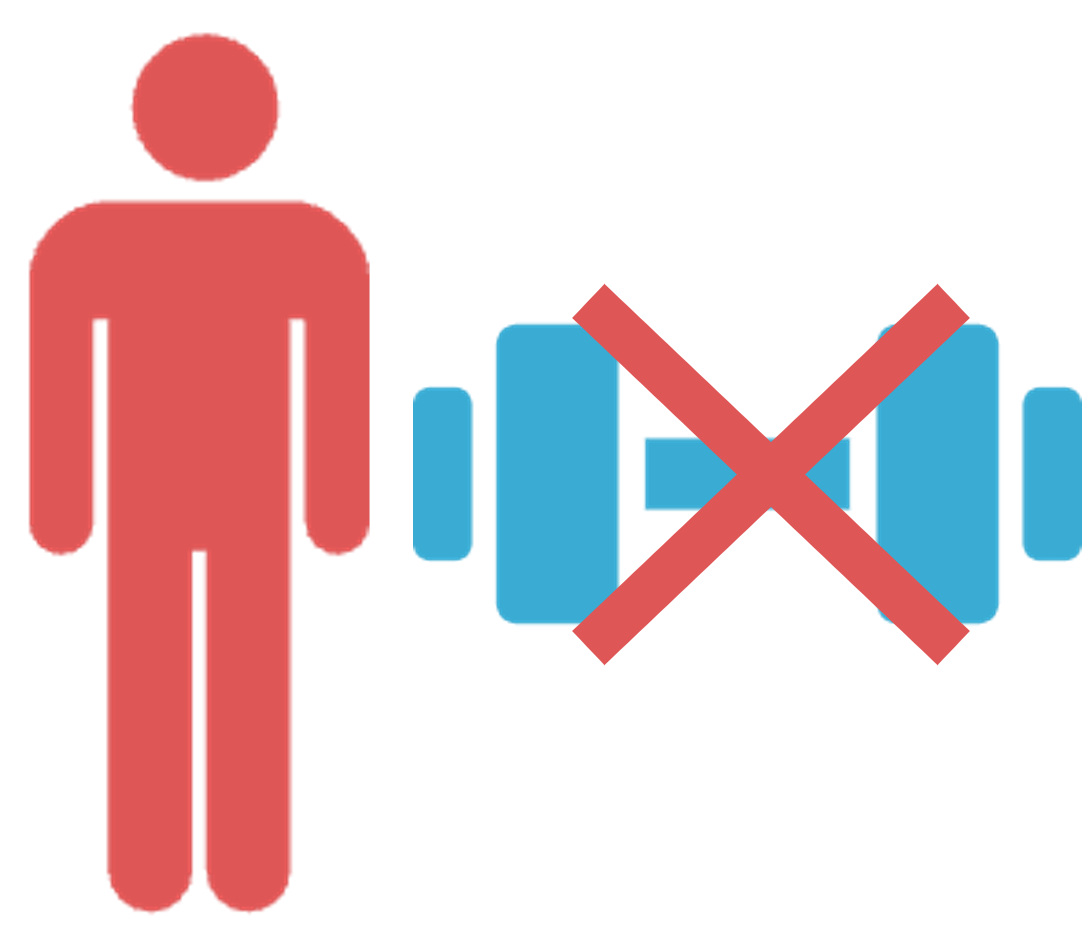
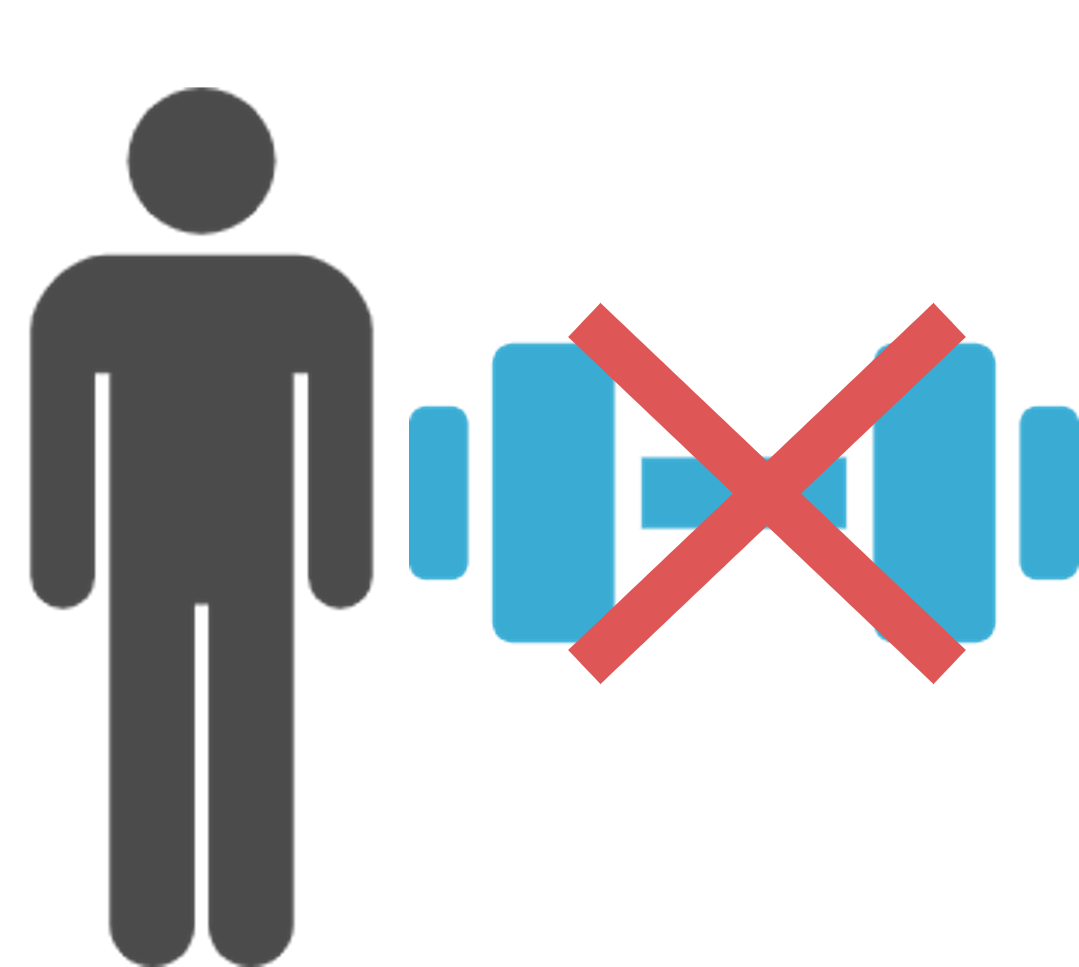
fix

diff --git a/exp/static/css/examine1.css b/exp/static/css/examine1.css
@@ -448,15 +448,15 @@ input[type="submit"]:disabled,
 }
 
 .control-description {
-    background-color: #fff5f5;
-    border: 1px solid #ffcccc;
-    color: #cc0000;
-}
-
-.experimental-description {
     background-color: #f0f8ff;
     border: 1px solid #b3e0ff;
     color: #0066cc;
+}
+
+.experimental-description {
+    background-color: #fff5f5;
+    border: 1px solid #ffcccc;
+    color: #cc0000;
 }
 
 /* 中央カラム: アイコン表示 */
@@ -602,23 +602,23 @@ input[type="submit"]:disabled,
  * 2つのグループを視覚的に区別するための色設定
  ***************************************/
 .control-group {
-    border-color: #ffcccc;
-    background-color: #fff5f5;
-}
-
-.control-group .group-header {
-    color: #cc0000;
-    border-bottom-color: #ffcccc;
-}
-
-.experimental-group {
     border-color: #b3e0ff;
     background-color: #f0f8ff;
 }
 
-.experimental-group .group-header {
+.control-group .group-header {
     color: #0066cc;
     border-bottom-color: #b3e0ff;
+}
+
+.experimental-group {
+    border-color: #ffcccc;
+    background-color: #fff5f5;
+}
+
+.experimental-group .group-header {
+    color: #cc0000;
+    border-bottom-color: #ffcccc;
 }
 
 /***************************************
@@ -881,16 +881,16 @@ input[type="submit"]:disabled,
 
 /* 統制群のフレーム説明と画像表示の統合スタイル */
 .control-group .frame-description {
-    background-color: #fff5f5;
-    border-right: 1px solid #ffcccc;
-    color: #cc0000;
+    background-color: #f0f8ff;
+    border-right: 1px solid #b3e0ff;
+    color: #0066cc;
 }
 
 /* 実験群のフレーム説明と画像表示の統合スタイル */
 .experimental-group .frame-description {
-    background-color: #f0f8ff;
-    border-right: 1px solid #b3e0ff;
-    color: #0066cc;
+    background-color: #fff5f5;
+    border-right: 1px solid #ffcccc;
+    color: #cc0000;
 }
 
 /* 水平レイアウトの調整 */
@@ -920,11 +920,11 @@ input[type="submit"]:disabled,
     }
     
     .control-group .frame-description {
-        border-bottom-color: #b3e0ff;
+        border-bottom-color: #ffcccc;
     }
     
     .experimental-group .frame-description {
-        border-bottom-color: #ffcccc;
+        border-bottom-color: #b3e0ff;
     }
     
     .group-icons {

diff --git a/exp/static/javascript/examine1_2.js b/exp/static/javascript/examine1_2.js
@@ -841,7 +841,7 @@ class Experiment12Manager {
     // スライダーの質問文を設定
     const sliderResultElement = document.getElementById('slider_scenario_result');
     if (sliderResultElement && resultText) {
-      sliderResultElement.textContent = resultText;
+      sliderResultElement.innerHTML = resultText;
       console.log('評価文をDOM要素に設定しました:', resultText);
     } else {
       console.error('slider_scenario_result要素が見つからないか、評価文が空です');
